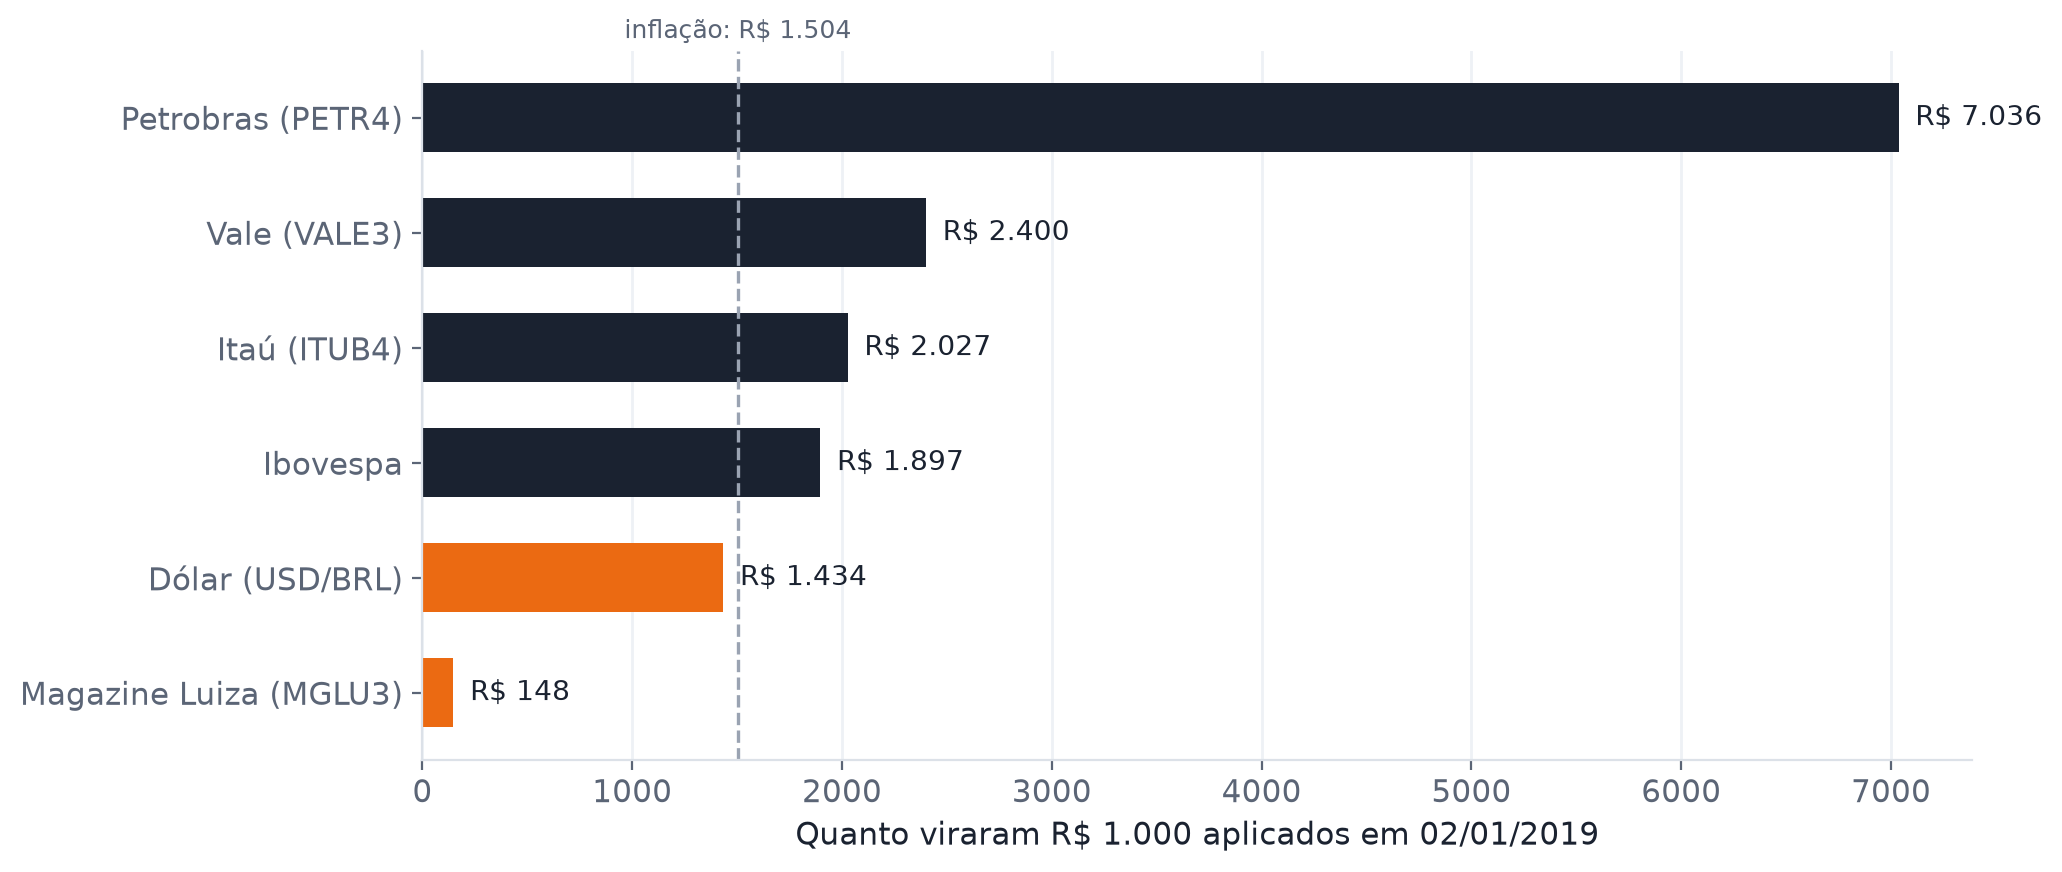
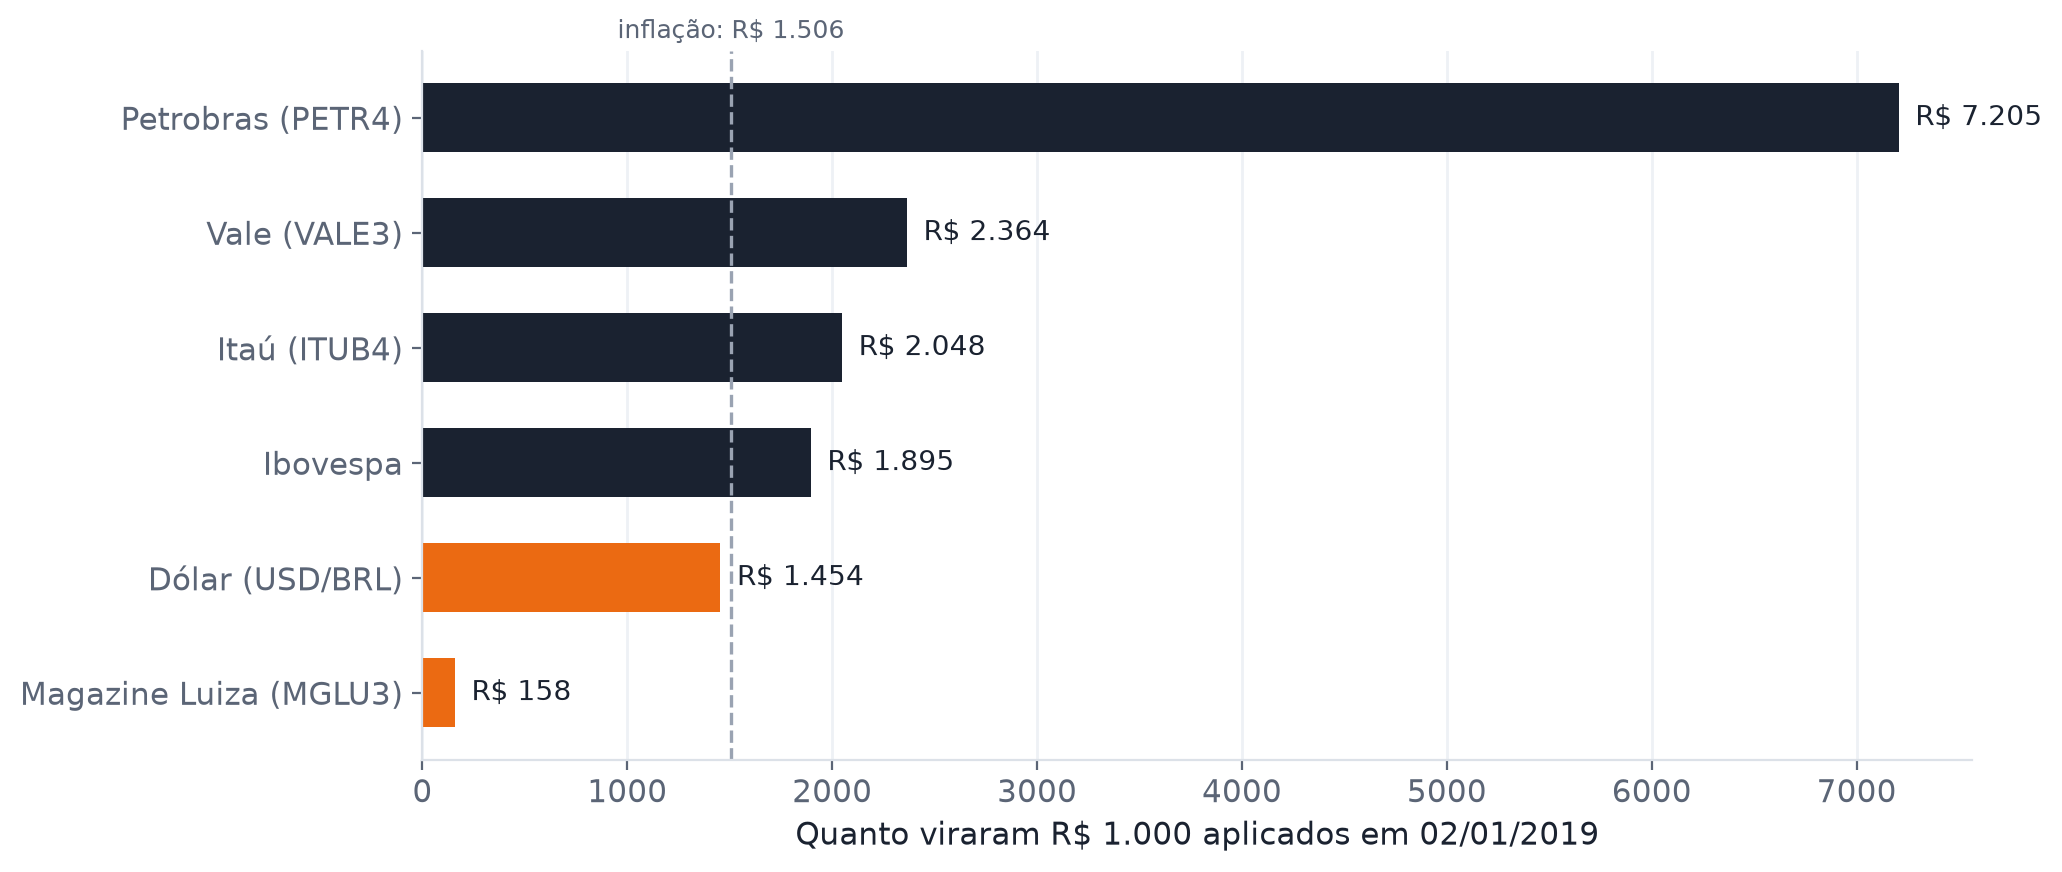
Atualiza dados e relatório

diff --git a/docs/index.html b/docs/index.html
@@ -32,7 +32,7 @@ a{color:var(--accent)}
 <body><main>
 <div class="kicker">Vitor Del Bosque Lima</div>
 <h1>O Mercado Não Mente</h1>
-<p class="lede">Quis ver nos números como a bolsa brasileira reagiu a alguns momentos que todo mundo lembra. Peguei os preços de 02/01/2019 a 11/11/2026 e fui atrás de quatro perguntas.</p>
+<p class="lede">Quis ver nos números como a bolsa brasileira reagiu a alguns momentos que todo mundo lembra. Peguei os preços de 02/01/2019 a 13/11/2026 e fui atrás de quatro perguntas.</p>
 
 <h2>1. A pandemia tirou 47% do Ibovespa em 40 pregões</h2>
 <p>Em 23/01/2020 o Ibovespa fechou em 120 mil pontos. Com a covid chegando ao Brasil, o índice caiu até 64 mil em 23/03/2020. Foram <span class="num">-46,8%</span> em 60 dias.</p>
@@ -53,12 +53,12 @@ a{color:var(--accent)}
 <figure><img src="img/4_eleicao.png" alt="Variação dos ativos nos pregões seguintes aos turnos das eleições de 2022 e 2026"><figcaption>Variação no pregão seguinte a cada turno. Num dia comum de janeiro a setembro, o Ibovespa oscilava cerca de 1,2% nos dois anos (desvio padrão dos retornos diários).</figcaption></figure>
 
 <h2>4. Quem ganhou da inflação desde 2019</h2>
-<p>No período, o IPCA acumulou +50,4%. Então não basta o ativo subir, ele precisa subir mais que isso para o dinheiro valer mais do que no começo. A Magazine Luiza e o dólar não conseguiram.</p>
+<p>No período, o IPCA acumulou +50,6%. Então não basta o ativo subir, ele precisa subir mais que isso para o dinheiro valer mais do que no começo. A Magazine Luiza e o dólar não conseguiram.</p>
 <figure><img src="img/5_acumulado.png" alt="Quanto viraram mil reais aplicados em cada ativo desde 2019"><figcaption>Preços ajustados por dividendos e desdobramentos. As barras em laranja ficaram abaixo da inflação. Fontes: Yahoo Finance e Banco Central (série 433 do SGS).</figcaption></figure>
 
 <h2>De onde vêm os números</h2>
 <p>Os preços vêm do Yahoo Finance pela biblioteca yfinance, e a Selic e o IPCA vêm da API do Banco Central. Tratei tudo em Python com pandas e fiz os gráficos com matplotlib. Os números do texto são calculados pelo próprio código, que roda de novo toda sexta pelo GitHub Actions, então esta página se atualiza sozinha.</p>
 <p>Olhar o preço em volta de um fato não prova que foi ele que causou o movimento, porque muita coisa acontece ao mesmo tempo. E nada aqui é recomendação de investimento.</p>
 
-<div class="meta">Dados atualizados em 11/11/2026. Código em <a href="https://github.com/VitorDBL/o-mercado-nao-mente">github.com/VitorDBL/o-mercado-nao-mente</a> · Portfólio: <a href="https://vitordbl.github.io">vitordbl.github.io</a></div>
+<div class="meta">Dados atualizados em 14/11/2026. Código em <a href="https://github.com/VitorDBL/o-mercado-nao-mente">github.com/VitorDBL/o-mercado-nao-mente</a> · Portfólio: <a href="https://vitordbl.github.io">vitordbl.github.io</a></div>
 </main></body></html>
